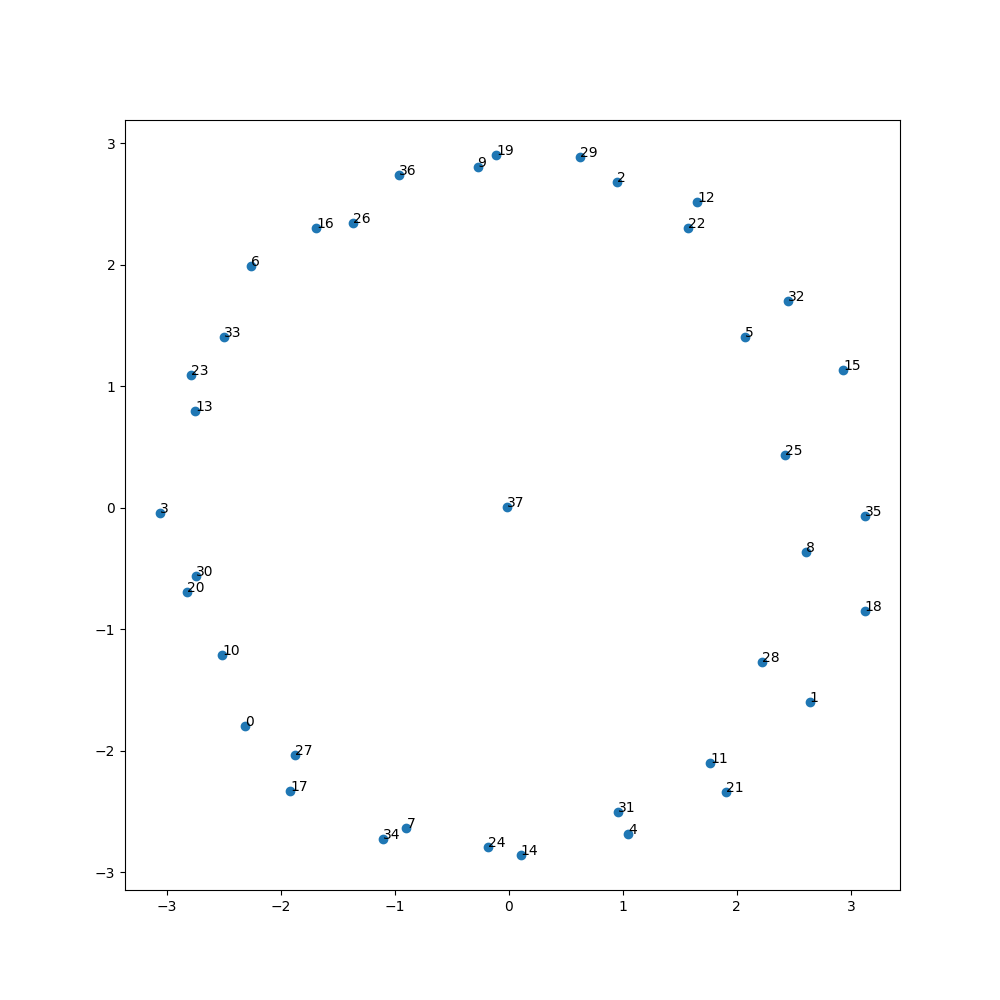
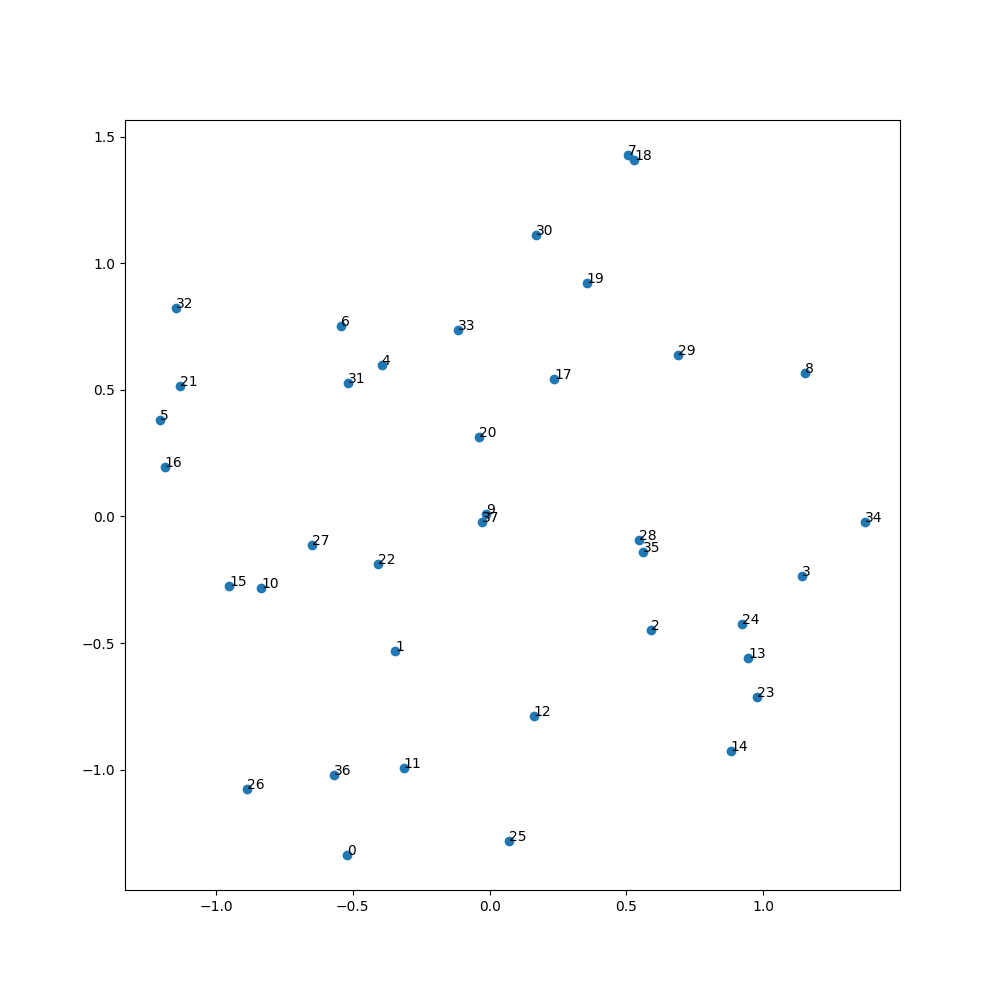
Improve reg in eig search

diff --git a/train_in_sphere_modular_addition.py b/train_in_sphere_modular_addition.py
@@ -1,7 +1,7 @@
 import torch as t
 from torch.nn.utils import parameters_to_vector, vector_to_parameters
-from helpers import reshape_submodule_param_vector
-from mlp_modular import (
+from helpers import reshape_submodule_param_vector, get_weight_norm
+from mlp_modular2 import (
     MLP,
     test_model,
     get_train_test_loaders,
@@ -19,17 +19,15 @@ def hessian_eig(
     model,
     loss_fn,
     train_data_loader,
-    num_batches=30,
     device="cuda",
     n_top_vectors=200,
     param_extract_fn=None,
+    reg=0.002
 ):
     param_extract_fn = param_extract_fn or (lambda x: x.parameters())
     num_params = sum(p.numel() for p in param_extract_fn(model))
     subset_a, subset_b, subset_res = [], [], []
-    for batch_idx, (a, b, res) in enumerate(train_data_loader):
-        if batch_idx >= num_batches:
-            break
+    for a, b, res in train_data_loader:
         subset_a.append(a.to(device))
         subset_b.append(b.to(device))
         subset_res.append(res.to(device))
@@ -39,7 +37,7 @@ def hessian_eig(
 
     def compute_loss():
         output = model(subset_a, subset_b)
-        return loss_fn(output, subset_res)
+        return loss_fn(output, subset_res) + reg * get_weight_norm(model) # hacky way to add weight norm
 
     def hessian_vector_product(vector):
         model.zero_grad()
@@ -55,7 +53,7 @@ def hessian_eig(
 
     linear_operator = LinearOperator((num_params, num_params), matvec=matvec)
     eigenvalues, eigenvectors = eigsh(
-        linear_operator, k=n_top_vectors, tol=0.1, which="LM", return_eigenvectors=True
+        linear_operator, k=n_top_vectors, tol=0.001, which="LM", return_eigenvectors=True
     )
     tot = 0
     thresholds = [0.1, 1, 2, 10]
@@ -100,9 +98,9 @@ def sphere_localized_loss_adjustment(
     params_vector = parameters_to_vector(model.parameters())
     params_proj = t.mv(proj_matrix, params_vector)
     offset_proj = t.mv(proj_matrix, offset)
-    r_proj_params = t.sqrt(t.norm(params_proj - offset_proj))
+    r_proj_params = t.norm(params_proj - offset_proj)
     sphere_reg = lambda_sphere * (r_proj_params - radius) ** 2
-    orth_reg = lambda_orth * t.norm(params_vector - offset - params_proj + offset_proj)
+    orth_reg = lambda_orth * t.norm(params_vector - offset - params_proj + offset_proj) ** 2
     return sphere_reg, orth_reg
 
 
@@ -117,35 +115,41 @@ def train_in_sphere(
     n_epochs=3,
     device="cuda",
     lr_decay=0.999,
-    weight_decay=0.05,
+    weight_reg=0.05,
+    initial_params=None
 ):
     model.to(device)
     offset = parameters_to_vector(model.parameters()).detach()
+    if initial_params is None:
+        # reshape all eigenvectors to be the same shape as the model parameters
+        top_eigenvectors = t.stack(
+            [
+                reshape_submodule_param_vector(model, get_module_parameters, v)
+                for v in top_eigenvectors
+            ]
+        )
+        # Adjust model weights to be on the sphere of high eigenvectors
+        n_eigenvectors = top_eigenvectors.shape[0]
+        rand_vec = t.randn(n_eigenvectors)
+        unit_sphere_vec = rand_vec @ top_eigenvectors
+        unit_sphere_vec /= t.norm(unit_sphere_vec)
+        point_on_sphere = offset.to(device) + radius * unit_sphere_vec.to(device)
+        # load the point on the sphere into the model
+        vector_to_parameters(point_on_sphere, model.parameters())
+    else:
+        vector_to_parameters(initial_params, model.parameters())
+
     optimizer = t.optim.AdamW(
-        get_module_parameters(model), lr=lr, weight_decay=weight_decay
-    )
-    # reshape all eigenvectors to be the same shape as the model parameters
-    top_eigenvectors = t.stack(
-        [
-            reshape_submodule_param_vector(model, get_module_parameters, v)
-            for v in top_eigenvectors
-        ]
+        get_module_parameters(model), lr=lr, weight_decay=0
     )
     scheduler = t.optim.lr_scheduler.ExponentialLR(optimizer, gamma=lr_decay)
-    loss_fn = t.nn.CrossEntropyLoss()
-    # Adjust model weights to be on the sphere of high eigenvectors
-    n_eigenvectors = top_eigenvectors.shape[0]
-    rand_vec = t.randn(n_eigenvectors)
-    unit_sphere_vec = rand_vec @ top_eigenvectors
-    unit_sphere_vec /= t.norm(unit_sphere_vec)
-    point_on_sphere = offset.to(device) + radius * unit_sphere_vec.to(device)
-    # load the point on the sphere into the model
-    vector_to_parameters(point_on_sphere, model.parameters())
+    ce_loss = t.nn.CrossEntropyLoss()
     model.train()
     idx = 0
     tot_sphere_reg = 0
     tot_orth_reg = 0
     tot_ce_loss = 0
+    tot_weight_reg_loss = 0
     for epoch in range(n_epochs):
         for a, b, res in dataloader:
             idx += 1
@@ -159,47 +163,50 @@ def train_in_sphere(
                 lambda_orth,
                 device=device,
             )
-            loss_main = loss_fn(model(a.to(device), b.to(device)), res.to(device))
+            loss_main = ce_loss(model(a.to(device), b.to(device)), res.to(device))
+            weight_reg_loss = get_weight_norm(model) * weight_reg
             tot_sphere_reg += sphere_reg.item()
             tot_orth_reg += orth_reg.item()
             tot_ce_loss += loss_main.item()
-            loss = loss_main + sphere_reg + orth_reg
+            tot_weight_reg_loss += float(weight_reg_loss)
+            loss = loss_main + sphere_reg + orth_reg + weight_reg
             loss.backward()
             optimizer.step()
         scheduler.step()
         if epoch % 50 == 0:
             print(
-                f"Epoch {epoch}/{n_epochs}, avg_sphere_reg = {tot_sphere_reg/idx}, avg_orth_reg = {tot_orth_reg/idx}, avg_ce_loss = {tot_ce_loss/idx}"
+                f"Epoch {epoch}/{n_epochs}, avg_sphere_reg = {tot_sphere_reg/idx}, avg_orth_reg = {tot_orth_reg/idx}, avg_ce_loss = {tot_ce_loss/idx} avg_weight_reg_loss = {tot_weight_reg_loss/idx}"
             )
             idx = 0
             tot_sphere_reg = 0
             tot_orth_reg = 0
             tot_ce_loss = 0
-    val_loss, val_acc = test_model(model, dataloader, device=device, criterion=loss_fn)
+            tot_weight_reg_loss = 0
+    val_loss, val_acc = test_model(model, dataloader, device=device, criterion=ce_loss)
     print(f"Final validation loss: {val_loss}, final validation accuracy: {val_acc}")
     t.save(model.state_dict(), "modular_addition_sphere_model.pth")
     return model
 
 
-def main():
+def main(checkpoint_path = "modular_addition.ckpt"):
     # Parameters
-    VOCAB_SIZE = 114
-    EMBED_DIM = 14
+    VOCAB_SIZE = 38
+    EMBED_DIM = 8
     HIDDEN_DIM = 8
-    CHECKPOINT_PATH = "modular_addition.ckpt"
-    N_EPOCHS = 5000
-    N_EIGENVECTORS = 8
-    RADIUS = 20
+    N_EPOCHS = 4000
+    N_EIGENVECTORS = 24
     LAMBDA_SPHERE = 10
-    LAMBDA_ORTH = 20
-    LR = 0.02
+    LAMBDA_ORTH = 1
+    LR = 0.01
     LR_DECAY = 0.999
-    WEIGHT_DECAY = 0.05
-    # Main code
+    WEIGHT_REG = 0.005
+
+    # Used to calculate eigenvectors for sphere search 
     model = MLP(vocab_size=VOCAB_SIZE, embed_dim=EMBED_DIM, hidden_dim=HIDDEN_DIM)
-    model.load_state_dict(t.load(CHECKPOINT_PATH))
+    model.load_state_dict(t.load(checkpoint_path))
     model.to(device="cuda")
     model.eval()
+
     loss_fn = t.nn.CrossEntropyLoss()
     train_loader, test_loader = get_train_test_loaders(
         train_frac=0.4, batch_size=256, vocab_size=VOCAB_SIZE
@@ -211,22 +218,29 @@ def main():
         device="cuda",
         n_top_vectors=N_EIGENVECTORS,
         param_extract_fn=get_module_parameters,
+        reg=WEIGHT_REG,
     )
-    train_in_sphere(
-        model,
-        train_loader,
-        eigenvectors,
-        radius=RADIUS,
-        lambda_sphere=LAMBDA_SPHERE,
-        lambda_orth=LAMBDA_ORTH,
-        lr=LR,
-        n_epochs=N_EPOCHS,
-        device="cuda",
-        lr_decay=LR_DECAY,
-        weight_decay=WEIGHT_DECAY,
-    )
-    plot_embeddings(model, VOCAB_SIZE)
-    plot_embeddings_chunks(model)
+
+    initial_params = None
+    for radius in [15, 20, 25, 30, 35, 40]:
+        train_in_sphere(
+            model,
+            train_loader,
+            eigenvectors,
+            radius=radius,
+            lambda_sphere=LAMBDA_SPHERE,
+            lambda_orth=LAMBDA_ORTH,
+            lr=LR,
+            n_epochs=N_EPOCHS,
+            device="cuda",
+            lr_decay=LR_DECAY,
+            weight_reg=WEIGHT_REG,
+            initial_params=initial_params
+        )
+        plot_embeddings_chunks(model, filename=f"embeddings_chunks_{radius}.png")
+        start_model = MLP(vocab_size=VOCAB_SIZE, embed_dim=EMBED_DIM, hidden_dim=HIDDEN_DIM)
+        start_model.load_state_dict(t.load("modular_addition_sphere_model.pth"))
+        initial_params = parameters_to_vector(start_model.parameters()).detach().cuda()
 
 
 if __name__ == "__main__":

diff --git a/mlp_modular2.py b/mlp_modular2.py
@@ -6,6 +6,7 @@ import matplotlib.pyplot as plt
 from mlp_modular_movie import plot_embeddings_movie, run_movie_cmd
 from random import randint
 from itertools import combinations
+from helpers import get_weight_norm
 
 def all_subsets(s):
     return [set(comb) for i in range(len(s) + 1) for comb in combinations(s, i)]
@@ -32,7 +33,8 @@ def count_parameters(model):
 
 def make_circle_embeddings(embed_dim, vocab_size):
     n_blocks = embed_dim // 2
-    k_values = [randint(1, vocab_size -1) for _ in range(n_blocks)]
+    # k_values = [randint(1, vocab_size -1) for _ in range(n_blocks)]
+    k_values = [3, 7, 11, 13, 17, 19, 23, 29, 31, 37, 41, 43, 47][:n_blocks]
     print("Using K values", k_values)
     arange_tensor = t.arange(vocab_size - 1).float()
     div_tensor = 2 * t.pi * arange_tensor / (vocab_size - 1)
@@ -48,11 +50,13 @@ def make_circle_embeddings(embed_dim, vocab_size):
     return t.cat(M_k_list, dim=1)
     
 class MLP(nn.Module):
-    def __init__(self, embed_dim, vocab_size, hidden_dim):
+    def __init__(self, embed_dim, vocab_size, hidden_dim, freeze_embed=False):
         super().__init__()
         self.n_blocks = embed_dim // 2
-        # self.embedding = nn.Parameter(make_circle_embeddings(embed_dim, vocab_size))  # size vocab size x embed_dim
-        self.embedding = nn.Parameter(t.randn(vocab_size, embed_dim))
+        self.embedding = nn.Parameter(make_circle_embeddings(embed_dim, vocab_size))  # size vocab size x embed_dim
+        if freeze_embed:
+            self.embedding.requires_grad = False
+        # self.embedding = nn.Parameter(t.randn(vocab_size, embed_dim))
         self.linear1_weights = nn.Parameter(t.randn(self.n_blocks, 2, hidden_dim))
         self.linear2_weights = nn.Parameter(t.randn(self.n_blocks, hidden_dim, 2))
         self.linear3 = nn.Linear(embed_dim, vocab_size, bias=False)
@@ -104,7 +108,7 @@ def add_embedding_noise_2(model, circuit_nums, frac=0.5, device="cpu"):
     model.embedding = nn.Parameter(embedding_weights.to(device))
     return model
 
-def plot_embeddings_chunks(model):
+def plot_embeddings_chunks(model, filename="embeddings_chunks.png"):
     plt.clf()
     embeddings = model.embedding.detach().cpu() # vocab_size x embed_dim
     chunked = t.chunk(embeddings, embeddings.shape[-1]//2, dim = -1)
@@ -124,8 +128,14 @@ def plot_embeddings_chunks(model):
         words = [str(i) for i in range(embeddings.shape[0])]
         for j, word in enumerate(words):
             axs[i].annotate(word, xy=(chunk[j, 0], chunk[j, 1]))
-    plt.tight_layout()  # adjust spacing between subplots
-    plt.savefig("embeddings_chunks.png")
+
+    for ax in axs:
+        bound = max([abs(x) for x in ax.get_xlim()] + [abs(y) for y in ax.get_ylim()])
+        ax.set_xlim([-bound, bound])
+        ax.set_ylim([-bound, bound])
+
+    plt.tight_layout()
+    plt.savefig(filename)
 
 
 def plot_embeddings(model, vocab_size):
@@ -150,15 +160,13 @@ def get_train_test_loaders(train_frac, batch_size, vocab_size):
     test_loader = data.DataLoader(test_dataset, batch_size=batch_size, shuffle=False)
     return train_loader, test_loader
 
-def get_weight_norm(model):
-    return sum((p ** 2).sum() for p in model.parameters() if p.requires_grad)
-
-def train(train_loader, test_loader, vocab_size = 114, hidden_dim = 32, embed_dim = 16, save_frames = True):
-    model = MLP(vocab_size=vocab_size, embed_dim=embed_dim, hidden_dim=hidden_dim)
+def train(train_loader, test_loader, vocab_size = 114, hidden_dim = 32, embed_dim = 16, save_frames = True, reg=0.005):
+    model = MLP(vocab_size=vocab_size, embed_dim=embed_dim, hidden_dim=hidden_dim, freeze_embed=True)
     print(f"Number of parameters: {count_parameters(model)}")
-    optimizer = t.optim.AdamW(model.parameters(), lr=0.005, weight_decay=0.01)
+    optimizer = t.optim.AdamW(model.parameters(), lr=0.02, weight_decay=0.0)
+    scheduler = t.optim.lr_scheduler.ExponentialLR(optimizer, gamma=0.9997)
     criterion = nn.CrossEntropyLoss()
-    epochs = 15000
+    epochs = 5000
     device = t.device("cuda" if t.cuda.is_available() else "cpu")
     model.to(device)
     old_acc = 0
@@ -170,7 +178,7 @@ def train(train_loader, test_loader, vocab_size = 114, hidden_dim = 32, embed_di
             x1, x2, target = x1.to(device), x2.to(device), target.to(device)
             optimizer.zero_grad()
             output = model(x1, x2)
-            loss = criterion(output, target)
+            loss = criterion(output, target) + reg * get_weight_norm(model)
             train_loss += loss.item()
             loss.backward()
             optimizer.step()
@@ -184,6 +192,7 @@ def train(train_loader, test_loader, vocab_size = 114, hidden_dim = 32, embed_di
             val_loss, val_acc = test_model(model, test_loader, device, criterion)
             print(f"Epoch {epoch}: train loss {train_loss}; test loss {val_loss}; test acc {val_acc}; old acc {old_acc}")
             old_acc = val_acc
+        scheduler.step()
     t.save(model.state_dict(), "modular_addition.ckpt")
     return model
 
@@ -202,17 +211,17 @@ def test_model(model, test_loader, device, criterion):
         val_loss = val_loss / len(test_loader)
     return val_loss, val_acc
 
-def experiment(model, test_loader):
+def experiment(model, test_loader, frac=0.5):
     device = t.device("cuda" if t.cuda.is_available() else "cpu")
     model = model.to(device)
     orig_embedding  = model.embedding.detach().clone()
     model.eval()
     val_loss, val_acc = test_model(model, test_loader, device, nn.CrossEntropyLoss())
     print(f"Original: loss: {float(val_loss)}, accuracy: {float(val_acc)}")
-    for subset in all_subsets([0, 1, 2]):
+    for subset in all_subsets(list(range(model.embedding.shape[-1]//2))):
         if len(subset) == 0:
             continue
-        model = add_embedding_noise_2(model, subset, frac=0.5, device=device)
+        model = add_embedding_noise_2(model, subset, frac=frac, device=device)
         val_loss, val_acc = test_model(model, test_loader, device, nn.CrossEntropyLoss())
         print(f"Embedding noise only on circuits ({subset}): loss: {float(val_loss)}, accuracy: {float(val_acc)}")
         model.embedding = t.nn.Parameter(orig_embedding.to(device))
@@ -221,7 +230,7 @@ if __name__ == "__main__":
     train_frac = 0.7
     batch_size = 256
     vocab_size = 38
-    embed_dim = 6
+    embed_dim = 8
     hidden_dim = 8
     train_loader, test_loader = get_train_test_loaders(train_frac, batch_size, vocab_size)
     train(train_loader, test_loader, vocab_size = vocab_size, embed_dim = embed_dim, hidden_dim = hidden_dim, save_frames = False)
@@ -231,4 +240,4 @@ if __name__ == "__main__":
     model.eval()
     plot_embeddings(model, vocab_size)
     plot_embeddings_chunks(model)
-    experiment(model, test_loader)
+    experiment(model, test_loader, frac=0.5)

diff --git a/helpers.py b/helpers.py
@@ -68,3 +68,6 @@ def plot_pertubation_results(results, fname, yaxis):
     plt.title(f'Model {yaxis} for different t values')
     plt.legend()
     plt.savefig(fname, format='png')
+
+def get_weight_norm(model):
+    return sum((p ** 2).sum() for p in model.parameters() if p.requires_grad)
